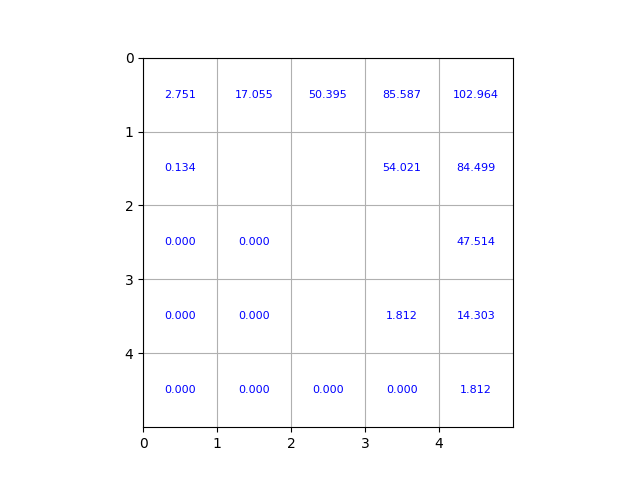
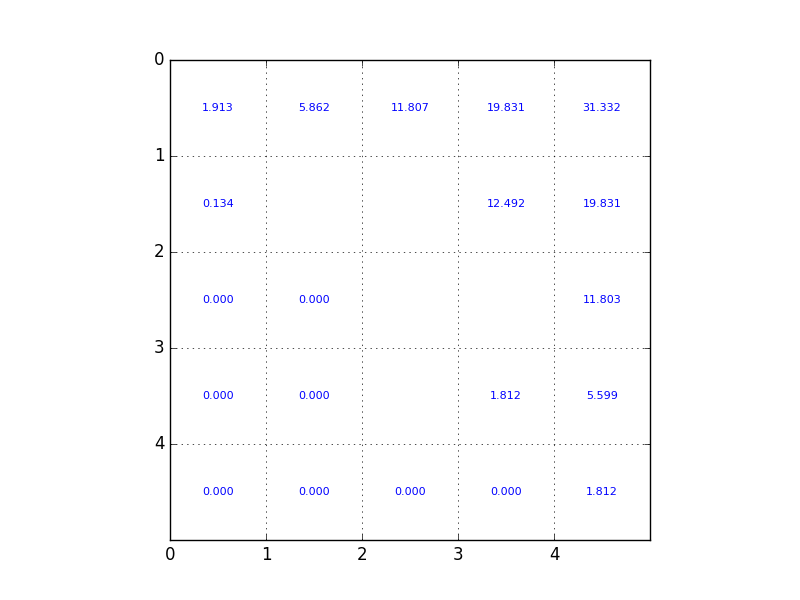
Fixed an error with policy iteration, new images 3_2

diff --git a/lab3/src/policyIter.py b/lab3/src/policyIter.py
@@ -23,6 +23,8 @@ def policyIter(gm):
 
     gm.display_PolicyMap(initPolicyDict)
 
+
+    initValDict = initValueTable(gm)
     prevPolicyDict = initPolicyDict
     prevValueDict = initValueTable(gm)
 
@@ -35,7 +37,7 @@ def policyIter(gm):
         iterationCount += 1 # Increment iteration counter
 
         # Perform policy evaluation
-        newValueDict = computeValue(gm, prevPolicyDict, prevValueDict)    # Compute value function when following policy
+        newValueDict = computeValue(gm, prevPolicyDict, prevValueDict, initValDict)    # Compute value function when following policy
 
         # Perform policy improvement
         newPolicyDict = getPolicyDict(newValueDict, gm) # Find new optimal policy using the values computed
@@ -89,7 +91,7 @@ def initRandomPolicy(gm):
     # Return the initial policy dictionary
     return initPolicyDict
 
-def computeValue(gm, policyDictionary, prevValDict):
+def computeValue(gm, policyDictionary, prevValDict, initalValDict):
     newValDict = {}
     # For every location in the map that isn't occupied
     for y in range(0, gm.cols):
@@ -103,7 +105,7 @@ def computeValue(gm, policyDictionary, prevValDict):
                 transList = getTransition(_LIST_SWITCH, _ACTION_TYPE, (x,y), gm.transition, desiredAction, _COMPLETION_PROB)
 
                 sumOfTransition = 0 # The sum of all possible transitions
-                r_s = prevValDict.get((x,y))    # Original reward value
+                r_s = initalValDict.get((x,y))    # Original reward value
                 for eligibleAction in transList:
                     futureReward = prevValDict.get(eligibleAction[0])
                     probability = eligibleAction[1]

diff --git a/lab3/src/graph_search.py b/lab3/src/graph_search.py
@@ -6,6 +6,7 @@ import numpy as np
 import heapq
 import matplotlib.pyplot as plotter
 from math import hypot, fabs
+from param import _TEXT_SIZE
 
 _DEBUG = False
 _DEBUG_END = True
@@ -186,7 +187,7 @@ class GridMap:
 
         # Add all of the reward values to the table
         for state in rewardDict:
-            plotter.text(state[1]+.5,state[0]+.5,'%.3f' % rewardDict.get(state), ha='center',va='center',fontsize=8,color='blue')
+            plotter.text(state[1]+.5,state[0]+.5,'%.3f' % rewardDict.get(state), ha='center',va='center',fontsize=_TEXT_SIZE,color='blue')
             #https://pyformat.info/
 
         plotter.axis('scaled')                  # Makes sides of squares even

diff --git a/lab3/src/param.py b/lab3/src/param.py
@@ -18,3 +18,6 @@ _EPSILON = .001             # Determines the limit of convergence.  Set to .001 
 # Start using in Part 3 (Policy Iteration)
 _POLICY_INIT = 'direction'  # If 'direction', initial policy will be all one direction, if 'random', then random
 _POLICY_INIT_DIR = 'd'      # Use 'u' for 3.1 and 'd' for 3.2 (just like how the actions are defined in these labs)
+
+# Misc Parameters
+_TEXT_SIZE = 8             # This changes the size of the text that pops up in the values tables

diff --git a/lab3/src/valueIter.py b/lab3/src/valueIter.py
@@ -2,7 +2,6 @@ from param import _GOAL_REWARD
 from param import _CORNER_REWARD
 from param import _OTHER_STATE_REWARD
 from param import _DISCOUNT_FACTOR
-from param import _NUM_ITER
 from param import _LIST_SWITCH
 from param import _COMPLETION_PROB
 from param import _ACTION_TYPE

diff --git a/lab3/src/policyIterMain.py b/lab3/src/policyIterMain.py
@@ -9,4 +9,4 @@ gm2 = GridMap("map2.txt")
 #prevIterTable = initTable(gm0)          # Fill the prevIteration Dictionary with the initial reward values
 #gm0.display_ValueIterMap(prevIterTable)
 
-policyIter(gm0)
+policyIter(gm1)
